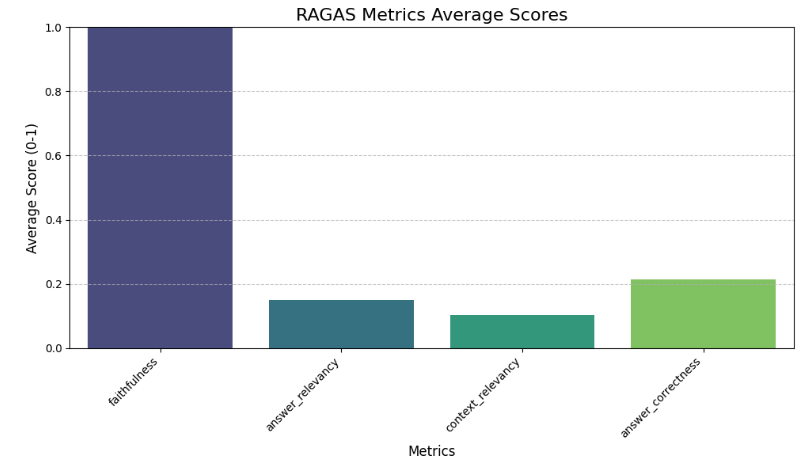
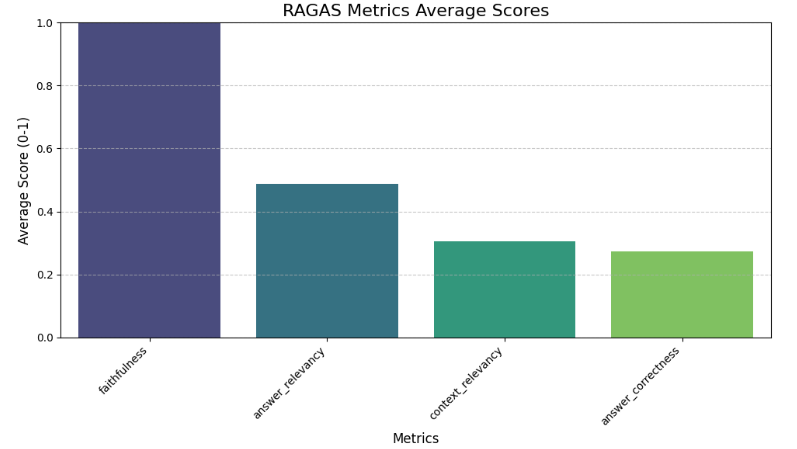
[jaebeom] readme에 LM 성능평가 결과 반영

diff --git a/README.md b/README.md
@@ -320,7 +320,7 @@ eval_examples = [
 
 * 평가 결과
 
-<img src="image/image_ragas" width="500"/>
+<img src="image_readme/image_ragas.png" width="800"/>
 
   * top_k = 3일때의 성능
 
